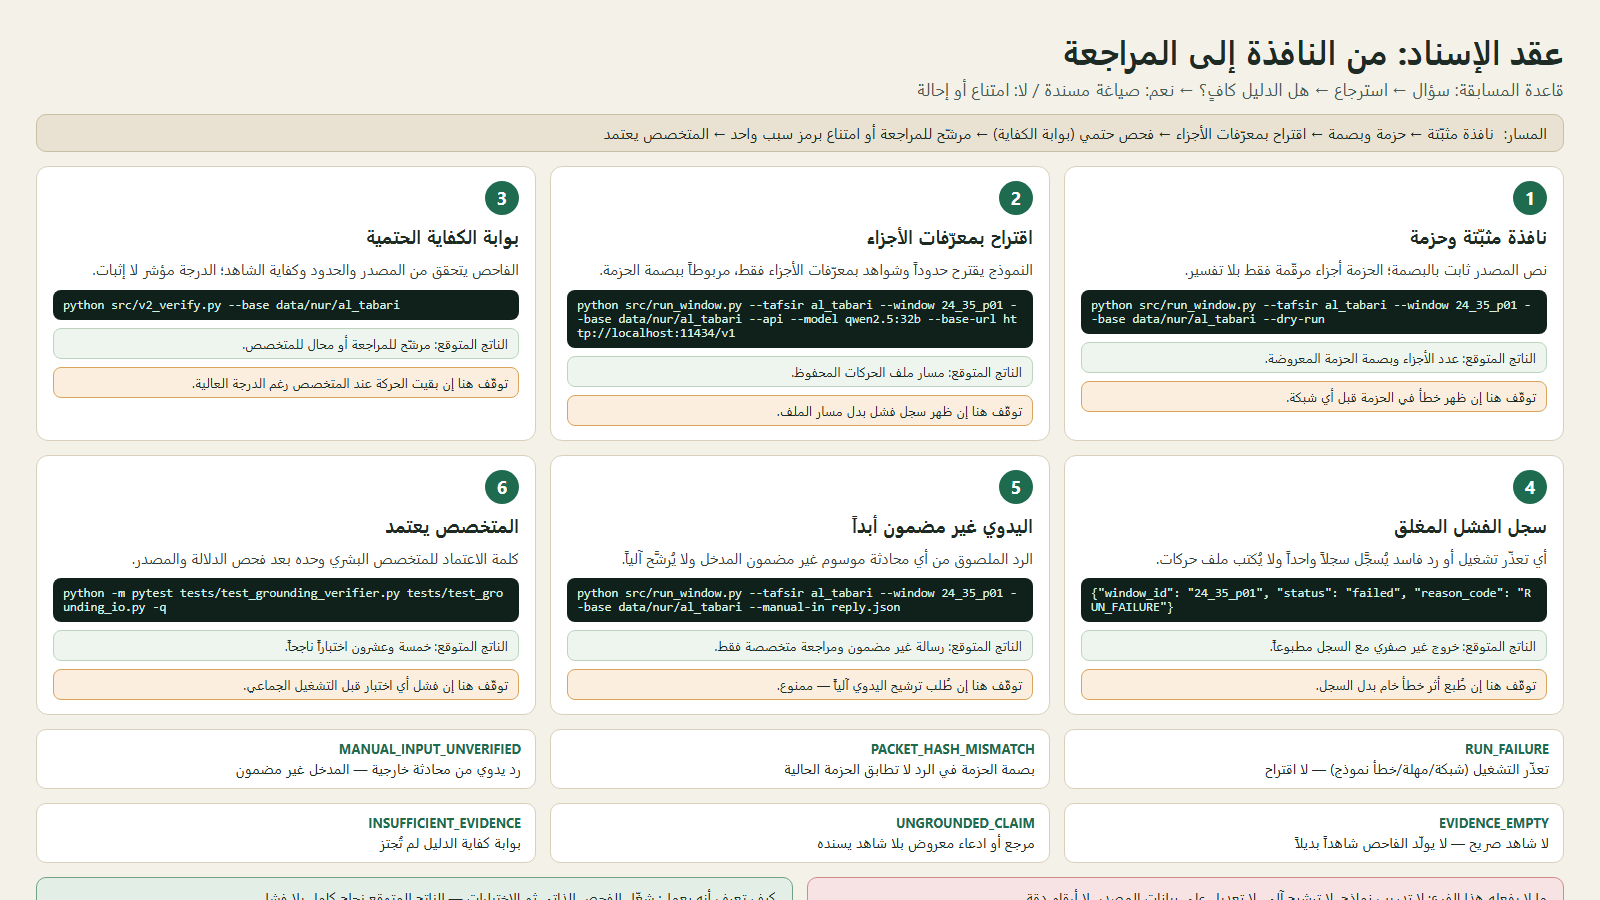
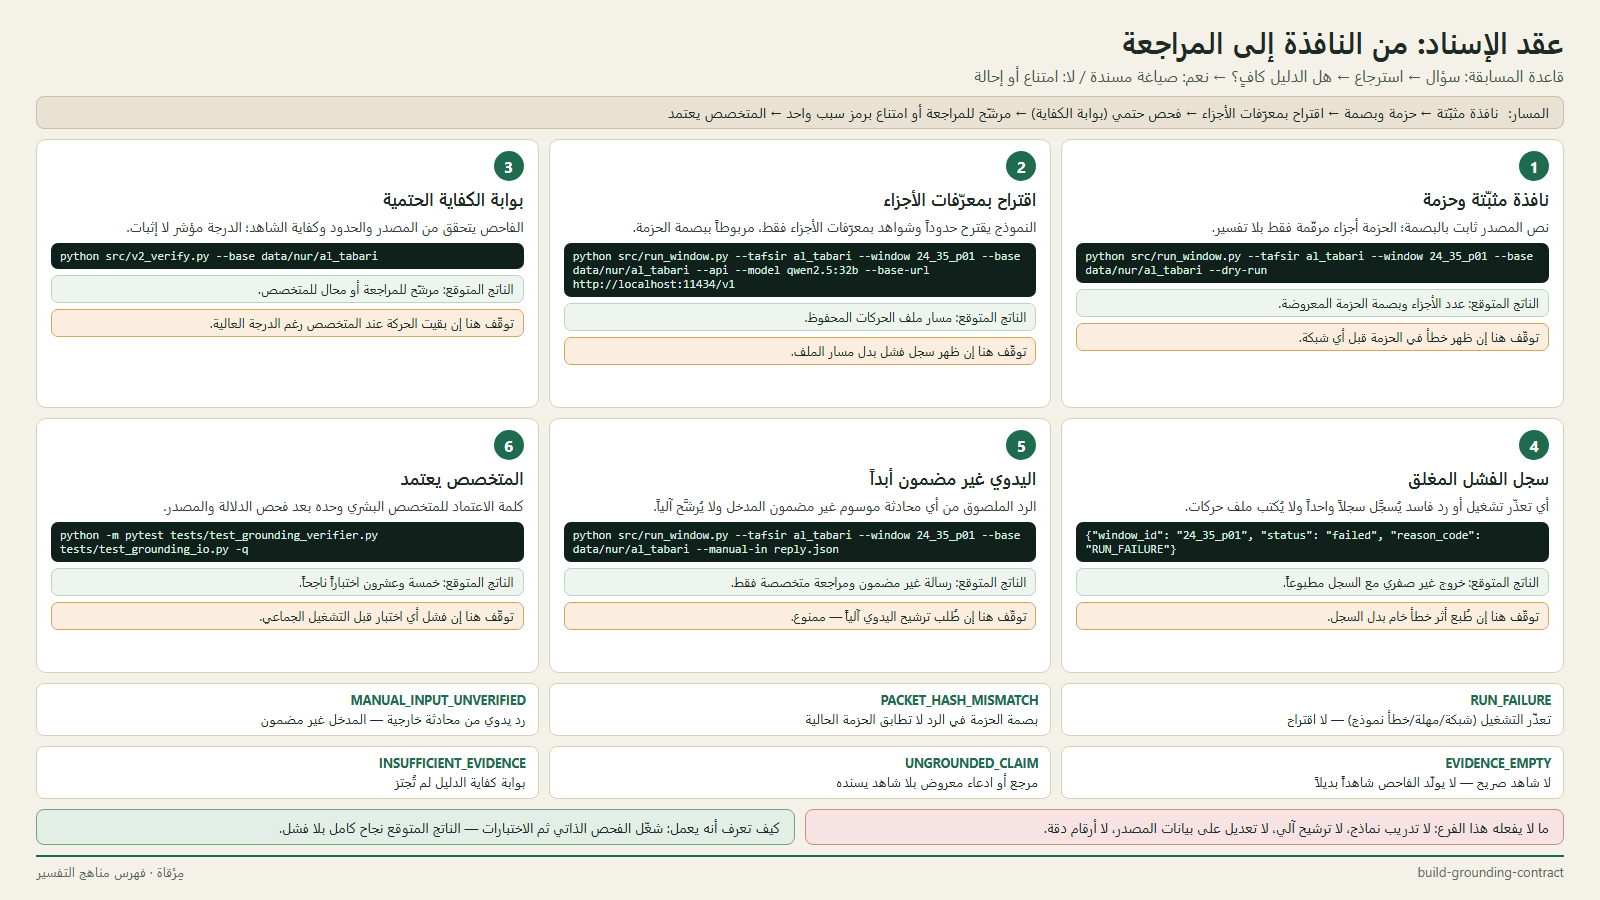
docs(grounding): fit usage infographic inside 1600x900

diff --git a/docs/branches/build-grounding-contract/usage.html b/docs/branches/build-grounding-contract/usage.html
@@ -5,26 +5,26 @@
 <style>
 *{box-sizing:border-box;margin:0;padding:0}
 body{width:1600px;height:900px;font-family:"Segoe UI",Tahoma,Arial,sans-serif;background:#f4f1e8;color:#1e2a24;overflow:hidden}
-.wrap{padding:28px 36px;height:900px;display:flex;flex-direction:column}
-h1{font-size:34px;margin-bottom:4px}
-.sub{font-size:17px;color:#4a5a52;margin-bottom:14px}
-.rule-flow{display:flex;align-items:center;gap:10px;background:#e9e2d2;border:1px solid #c9bfa5;border-radius:10px;padding:8px 16px;font-size:15px;margin-bottom:14px}
-.steps{display:grid;grid-template-columns:repeat(3,1fr);gap:14px;flex:1}
-.step{background:#fff;border:1px solid #d8d0ba;border-radius:12px;padding:14px 16px;display:flex;flex-direction:column;gap:8px}
-.step .num{background:#1e6b4f;color:#fff;width:34px;height:34px;border-radius:17px;display:flex;align-items:center;justify-content:center;font-size:18px;font-weight:700}
-.step h2{font-size:19px}
-.step p{font-size:14.5px;line-height:1.7;color:#33403a}
-code{direction:ltr;unicode-bidi:isolate;display:block;background:#10201a;color:#d7f0e2;font-family:Consolas,"Courier New",monospace;font-size:12.5px;border-radius:8px;padding:8px 10px;white-space:pre-wrap;word-break:break-all}
-.exp{font-size:13px;background:#eef5ef;border:1px solid #bcd4bf;border-radius:8px;padding:6px 10px}
-.stop{font-size:13px;background:#fbeede;border:1px solid #d9a45b;border-radius:8px;padding:6px 10px}
-.codes{display:grid;grid-template-columns:repeat(3,1fr);gap:14px;margin-top:14px}
-.codebox{background:#fff;border:1px solid #d8d0ba;border-radius:10px;padding:10px 14px;font-size:14px}
-.codebox b{display:block;font-size:13px;color:#1e6b4f;margin-bottom:2px}
-.strips{display:flex;gap:14px;margin-top:14px}
-.strip{flex:1;border-radius:10px;padding:10px 16px;font-size:14px}
+.wrap{padding:22px 36px 20px 36px;height:900px;display:flex;flex-direction:column}
+h1{font-size:30px;margin-bottom:3px}
+.sub{font-size:15.5px;color:#4a5a52;margin-bottom:10px}
+.rule-flow{display:flex;align-items:center;gap:10px;background:#e9e2d2;border:1px solid #c9bfa5;border-radius:8px;padding:6px 14px;font-size:14px;margin-bottom:10px}
+.steps{display:grid;grid-template-columns:repeat(3,1fr);gap:10px;flex:1}
+.step{background:#fff;border:1px solid #d8d0ba;border-radius:10px;padding:11px 14px;display:flex;flex-direction:column;gap:6px}
+.step .num{background:#1e6b4f;color:#fff;width:30px;height:30px;border-radius:15px;display:flex;align-items:center;justify-content:center;font-size:16px;font-weight:700}
+.step h2{font-size:17.5px}
+.step p{font-size:13.5px;line-height:1.55;color:#33403a}
+code{direction:ltr;unicode-bidi:isolate;display:block;background:#10201a;color:#d7f0e2;font-family:Consolas,"Courier New",monospace;font-size:11.8px;border-radius:7px;padding:6px 9px;white-space:pre-wrap;word-break:break-word;overflow-wrap:break-word}
+.exp{font-size:12.5px;background:#eef5ef;border:1px solid #bcd4bf;border-radius:7px;padding:5px 9px}
+.stop{font-size:12.5px;background:#fbeede;border:1px solid #d9a45b;border-radius:7px;padding:5px 9px}
+.codes{display:grid;grid-template-columns:repeat(3,1fr);gap:10px;margin-top:10px}
+.codebox{background:#fff;border:1px solid #d8d0ba;border-radius:8px;padding:8px 12px;font-size:13px}
+.codebox b{display:block;font-size:12.5px;color:#1e6b4f;margin-bottom:2px}
+.strips{display:flex;gap:10px;margin-top:10px}
+.strip{flex:1;border-radius:8px;padding:8px 14px;font-size:13.5px}
 .scope{background:#f7e3e3;border:1px solid #cf8a8a}
 .verify{background:#e3efe6;border:1px solid #6fa287}
-.footer{margin-top:12px;display:flex;justify-content:space-between;font-size:14px;color:#5b6a62;border-top:2px solid #1e6b4f;padding-top:8px}
+.footer{margin-top:10px;display:flex;justify-content:space-between;font-size:13px;color:#5b6a62;border-top:2px solid #1e6b4f;padding-top:6px}
 </style>
 </head>
 <body>
